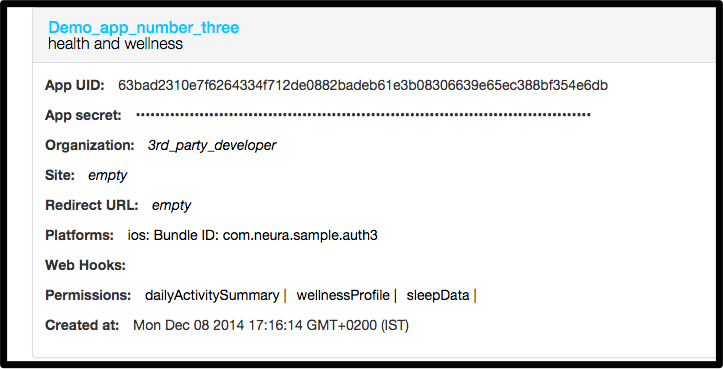
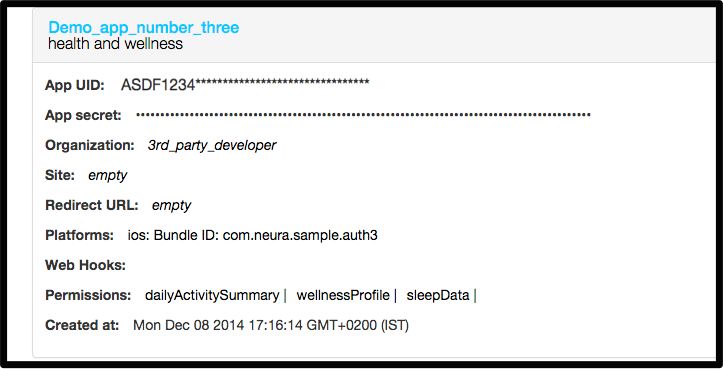
mikimer updating iOS docs

Changed region(s): [[0.1521, 0.2087, 0.852, 0.2683]]

diff --git a/text/SDK_iOS.md b/text/SDK_iOS.md
@@ -49,8 +49,10 @@ In this example a developer from **3rd_party_developer, Inc.** created an app ca
 The [Neura SDK for iOS](https://github.com/NeuraLabs/neura_ios_sdk/tree/master/SampleProject/NeuraAuthSampleApp/lib) consists of the files **Neura.h** and **libNeura.a**, which you need to add to your app.  
 
 
-ASDF1234********************************
+ABC123***********************************
 
+
+xyz789***********************************
 
 
 ##  4. Request data objects to better understand your users  
